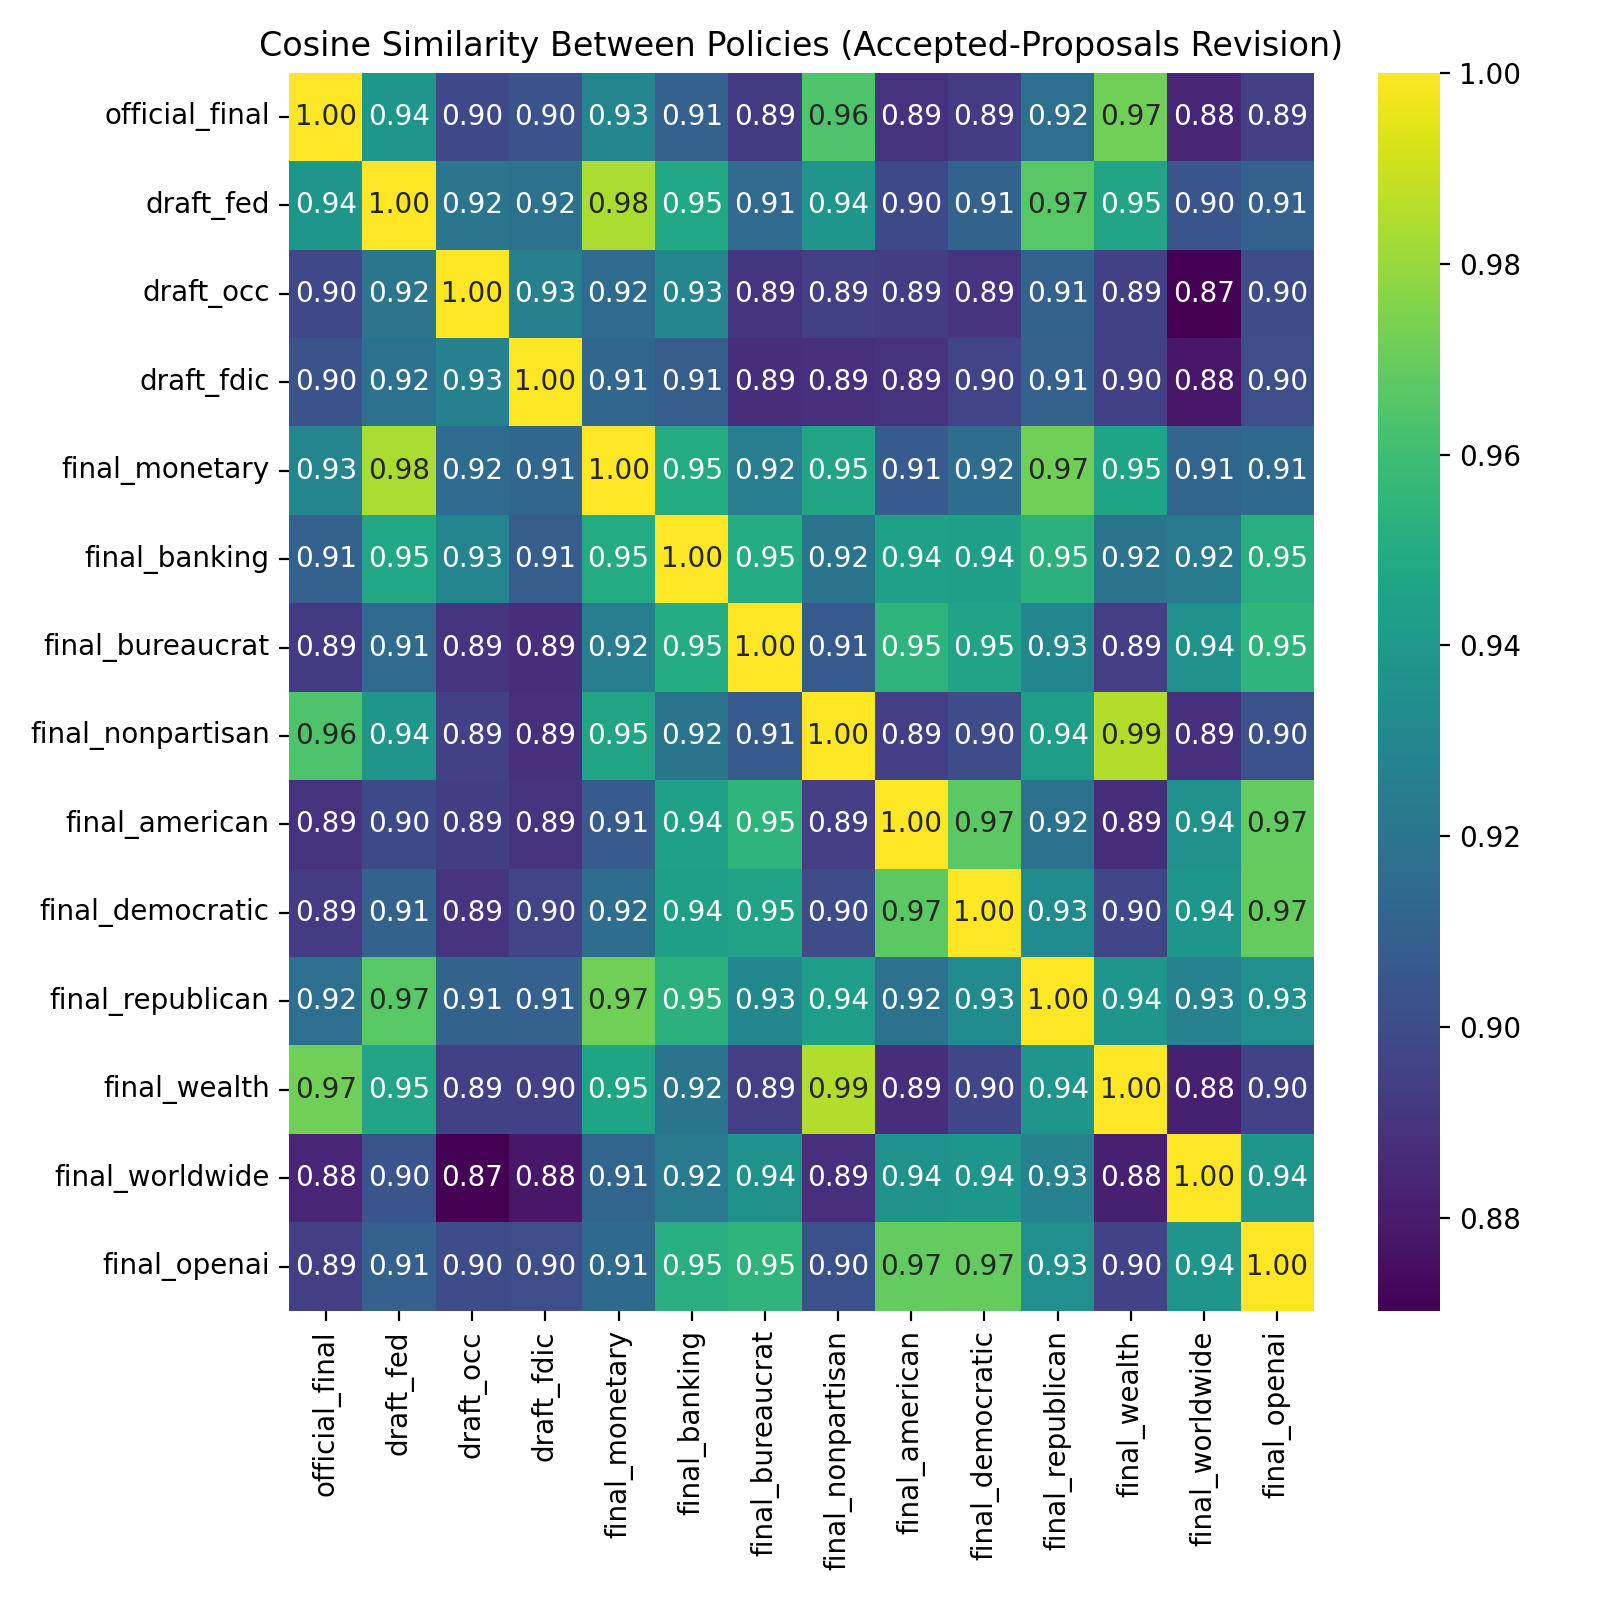
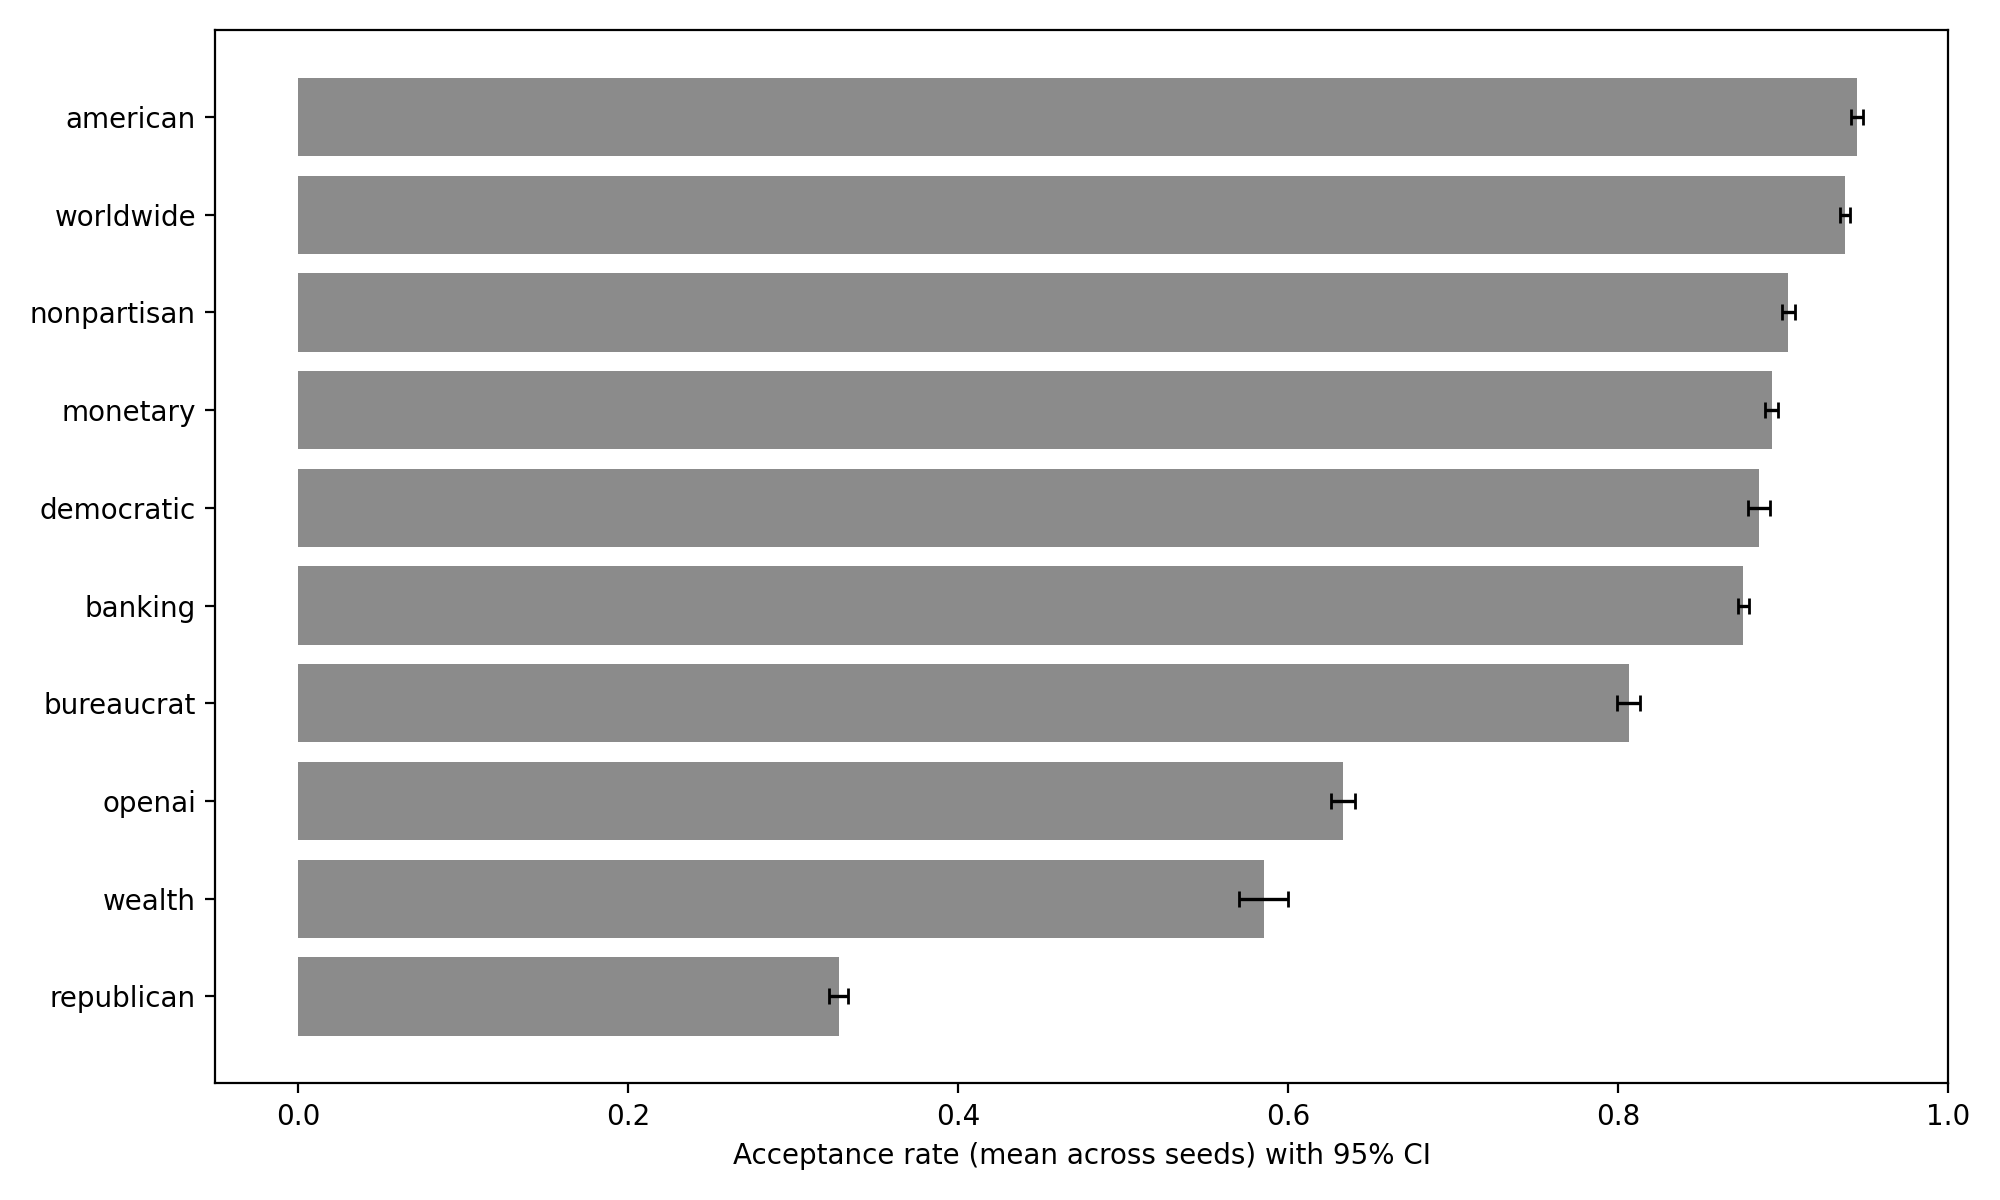
Update website content: CV, climate research publication, and rebuild index

diff --git a/index.html b/index.html
@@ -1,2 +1,2 @@
-<html lang="en"><head><meta charset="utf-8"/><meta content="width=device-width, initial-scale=1" name="viewport"/><title>Kirill Skobelev</title><link href="https://fonts.googleapis.com" rel="preconnect"/><link crossorigin="" href="https://fonts.gstatic.com" rel="preconnect"/><link href="https://fonts.googleapis.com/css2?family=Roboto:wght@400;500;700&amp;display=swap" rel="stylesheet"/><link href="styles.css" rel="stylesheet"/></head><body><main class="content"><section class="intro-section"><div class="profile-header"><img alt="Portrait of Kirill Skobelev" class="profile-photo" src="assets/Kirill_Skobelev.jpg"/><div class="profile-text"><h1>Kirill Skobelev</h1><nav class="social-links"><a href="mailto:[email redacted]">Email</a><a href="https://www.linkedin.com/in/skobelevkirill/">LinkedIn</a><a download="" href="assets/Kirill Skobelev CV.pdf">CV</a><a href="https://scholar.google.com/citations?user=AvdGCIMAAAAJ&amp;hl=en&amp;oi=ao">Google Scholar</a></nav></div></div></section><section class="section" id="bio"><h2>Bio</h2><div class="bio-content"><p>I am a pre-doctoral researcher at the <a href="https://www.chicagobooth.edu/research/center-for-applied-artificial-intelligence/about">Center for Applied AI</a> at the University of Chicago Booth School of Business. I earned a B.A. in Economics, summa cum laude, from the <a href="https://www.nes.ru/official&amp;lang=en">New Economic School</a> and <a href="https://www.hse.ru/en/info/">Higher School of Economics</a>. Before joining the Center for Applied AI, I worked as a data scientist at <a href="https://www.linkedin.com/company/platacardmx">PLATA</a>.</p></div></section><section class="section" id="publications"><h2>Research</h2><article class="publication"><div class="pub-media"><img alt="Visualization for DELM: a Python toolkit for Data Extraction with Language Models" src="assets/publications/1_delm/delm_illustration.png"/></div><div class="pub-content"><h3>DELM: a Python toolkit for Data Extraction with Language Models</h3><p class="pub-meta"><a href="https://www.linkedin.com/in/ericbfithian">Eric Fithian</a>, Kirill Skobelev · 2025</p><details class="pub-abstract"><summary>Abstract</summary><div class="pub-abstract-body"><p>Large Language Models (LLMs) have become powerful tools for annotating unstructured data. However, most existing workflows rely on ad hoc scripts, making reproducibility, robustness, and systematic evaluation difficult. To address these challenges, we introduce DELM (Data Extraction with Language Models), an open-source Python toolkit designed for rapid experimental iteration of LLM-based data extraction pipelines and for quantifying the trade-offs between them. DELM minimizes boilerplate code and offers a modular framework with structured outputs, built-in validation, flexible data-loading and scoring strategies, and efficient batch processing. It also includes robust support for working with LLM APIs, featuring retry logic, result caching, detailed cost tracking, and comprehensive configuration management. We showcase DELM’s capabilities through two case studies: one featuring a novel prompt optimization algorithm, and another illustrating how DELM quantifies trade-offs between cost and coverage when selecting keywords to decide which paragraphs to pass to an LLM.
-DELM is available at \href{https://github.com/Center-for-Applied-AI/delm}{\texttt{github.com/Center-for-Applied-AI/delm}}.</p></div></details><p class="pub-comments">Under review at ICLR 2026</p><div class="pub-links"><a class="pub-link" href="https://github.com/Center-for-Applied-AI/delm/tree/main">[code]</a><a class="pub-link" href="https://arxiv.org/abs/2509.20617">[paper]</a></div></div></article><article class="publication"><div class="pub-media"><img alt="Visualization for Bank Regulators and Climate Action: Evidence from Supervisory Guidance" src="assets/publications/2_climate/climate_illustration.png"/></div><div class="pub-content"><h3>Bank Regulators and Climate Action: Evidence from Supervisory Guidance</h3><p class="pub-meta">Kirill Skobelev, <a href="https://sites.google.com/chicagobooth.edu/rimmyetomy/home">Rimmy E. Tomy</a> · 2025</p><details class="pub-abstract"><summary>Abstract</summary><div class="pub-abstract-body"><p>U.S. bank regulators generally view their role as overseeing banks' exposure to climate-related risks rather than actively shaping climate policy. However, the boundary between risk oversight and policy advocacy is a gray area. We examine how U.S. bank regulators respond to climate advocacy pressures by analyzing  textual data on public comments and comparing revisions between the draft and final interagency guidance on climate risk management. Utilizing large language models (LLMs) to classify the public comments, we find that these comments are highly polarized, with individuals and climate advocacy groups supporting climate action by bank regulators, and banks and banking associations opposing it. We create textual alignment measures between comments and the draft and final interagency guidance, and find that highly climate-engaged comments are less likely to be reflected in the final guidance, suggesting regulators discounted pro-climate advocacy. Finally, we leverage LLMs to simulate various roles for the regulator and find that policy revisions most similar to actual outcomes emerged when operating under financial stability mandates and partisan political framings.</p></div></details><p class="pub-comments">Work in Progress. Reach out for the latest draft.</p></div></article><article class="publication"><div class="pub-media"><img alt="Visualization for Statistical Learning Meets Analyst Forecasts of Corporate Earnings" src="assets/publications/3_thesis/thesis_illustration.png"/></div><div class="pub-content"><h3>Statistical Learning Meets Analyst Forecasts of Corporate Earnings</h3><p class="pub-meta">Kirill Skobelev · 2024</p><details class="pub-abstract"><summary>Abstract</summary><div class="pub-abstract-body"><p>This paper explores the use and interpretation of ML methods in asset-pricing. First, I propose a robust market anomaly test based on analyst errors. I derive a link between excess returns and market's errors in earnings forecasts relative to a conditionally optimally estimator. I then contrast a Gradient Boosted Decision Tree algorithm to IBES consensus forecasts to show that companies for which analyst predictions exceeded ML forecasts earned lower out-of-sample returns and vice versa, which is consistent with the theoretical result. Further, I identify behavioral causes of analyst errors: I illustrate that analyst errors are associated with earnings growth in previous quarters (negatively), with book values (positively), and with capital expenditures (positively), thereby explaining some pricing anomalies. Second, I explore the application of ML for studying analyst behavior. I find that they submitted more Net Income forecasts for companies with intrinsically more predictable earnings as measured by R-Squared of ML forecasts after controlling for size and reporting history length.</p></div></details><p class="pub-comments">Undergraduate thesis.</p><div class="pub-links"><a class="pub-link" href="https://www.dropbox.com/scl/fi/8cd1icwhpw07397z5gf4m/Kirill-Skobelev-Statistical-Learning-Meets-Analyst-Forecasts-of-Corporate-Earnings-2024.pdf?rlkey=iv18gr5r624rembttnholp0i9&amp;e=1&amp;st=vzta4q1s&amp;dl=0">[paper]</a></div></div></article><article class="publication"><div class="pub-media"><img alt="Visualization for Bitcoin Production Cost: Demystifying the Mining Industry" src="assets/publications/4_bitcoin/bitcoin_illustration.png"/></div><div class="pub-content"><h3>Bitcoin Production Cost: Demystifying the Mining Industry</h3><p class="pub-meta">Kirill Skobelev · 2021</p><details class="pub-abstract"><summary>Abstract</summary><div class="pub-abstract-body"><p>This study examines the Bitcoin mining industry. It proposes a novel approach rooted in behavioral patterns for estimating the structure of the equipment utilized in the Bitcoin network. This study models industry’s capital expenditures, aggregate efficiency of mining hardware, and aggregate miner profitability. It finds that profits cluster in time and are relatively low compared to pure Bitcoin returns. This study considers two Bitcoin valuation methods proposed earlier in the literature: the marginal cost of production approach and 51-percent attack arbitrage. The study finds that the marginal cost hypothesis is invalid, while 51-percent attack arbitrage theory is well-grounded. This study introduces the hashrate adjustment hypothesis, which states that miners in aggregate adjust network hashrate to their revenues, which are primarily a function of the price of Bitcoin. The study presents evidence in its support.</p></div></details><p class="pub-comments">Winner of the Student Research Paper Competition held by the HSE University.</p><div class="pub-links"><a class="pub-link" href="https://papers.ssrn.com/sol3/papers.cfm?abstract_id=4005400#paper-citations-widget">[paper]</a></div></div></article></section></main></body></html>
+<html lang="en"><head><meta charset="utf-8"/><meta content="width=device-width, initial-scale=1" name="viewport"/><title>Kirill Skobelev</title><link href="https://fonts.googleapis.com" rel="preconnect"/><link crossorigin="" href="https://fonts.gstatic.com" rel="preconnect"/><link href="https://fonts.googleapis.com/css2?family=Inter:wght@300;400;500;600&amp;family=Merriweather:ital,wght@0,300;0,400;0,700;1,400&amp;display=swap" rel="stylesheet"/><link href="styles.css" rel="stylesheet"/></head><body><main class="content"><section class="intro-section"><div class="profile-header"><img alt="Portrait of Kirill Skobelev" class="profile-photo" src="assets/Kirill_Skobelev.jpg"/><div class="profile-text"><h1>Kirill Skobelev</h1><nav class="social-links"><a href="mailto:[email redacted]">Email</a><a href="https://www.linkedin.com/in/skobelevkirill/">LinkedIn</a><a download="" href="assets/Kirill Skobelev CV.pdf">CV</a><a href="https://scholar.google.com/citations?user=AvdGCIMAAAAJ&amp;hl=en&amp;oi=ao">Google Scholar</a></nav></div></div></section><section class="section" id="bio"><h2>Bio</h2><div class="bio-content"><p>I am a pre-doctoral researcher at the <a href="https://www.chicagobooth.edu/research/center-for-applied-artificial-intelligence/about">Center for Applied AI</a> at the University of Chicago Booth School of Business. I earned a B.A. in Economics, summa cum laude, from the <a href="https://www.nes.ru/official&amp;lang=en">New Economic School</a> and <a href="https://www.hse.ru/en/info/">Higher School of Economics</a>. Before joining the Center for Applied AI, I worked as a data scientist at <a href="https://www.linkedin.com/company/platacardmx">PLATA</a>.</p></div></section><section class="section" id="publications"><h2>Research</h2><article class="publication"><div class="pub-media"><img alt="Visualization for DELM: a Python toolkit for Data Extraction with Language Models" src="assets/publications/1_delm/delm_illustration.png"/></div><div class="pub-content"><h3>DELM: a Python toolkit for Data Extraction with Language Models</h3><p class="pub-meta"><a href="https://www.linkedin.com/in/ericbfithian">Eric Fithian</a>, Kirill Skobelev · 2025</p><details class="pub-abstract"><summary>Abstract</summary><div class="pub-abstract-body"><p>Large Language Models (LLMs) have become powerful tools for annotating unstructured data. However, most existing workflows rely on ad hoc scripts, making reproducibility, robustness, and systematic evaluation difficult. To address these challenges, we introduce DELM (Data Extraction with Language Models), an open-source Python toolkit designed for rapid experimental iteration of LLM-based data extraction pipelines and for quantifying the trade-offs between them. DELM minimizes boilerplate code and offers a modular framework with structured outputs, built-in validation, flexible data-loading and scoring strategies, and efficient batch processing. It also includes robust support for working with LLM APIs, featuring retry logic, result caching, detailed cost tracking, and comprehensive configuration management. We showcase DELM’s capabilities through two case studies: one featuring a novel prompt optimization algorithm, and another illustrating how DELM quantifies trade-offs between cost and coverage when selecting keywords to decide which paragraphs to pass to an LLM.
+DELM is available at \href{https://github.com/Center-for-Applied-AI/delm}{\texttt{github.com/Center-for-Applied-AI/delm}}.</p></div></details><p class="pub-comments">arXiv preprint.</p><div class="pub-links"><a class="pub-link" href="https://github.com/Center-for-Applied-AI/delm/tree/main">[code]</a><a class="pub-link" href="https://arxiv.org/abs/2509.20617">[paper]</a></div></div></article><article class="publication"><div class="pub-media"><img alt="Visualization for Bank Regulators and Climate Action: Evidence from Supervisory Guidance" src="assets/publications/2_climate/climate_illustration.png"/></div><div class="pub-content"><h3>Bank Regulators and Climate Action: Evidence from Supervisory Guidance</h3><p class="pub-meta">Kirill Skobelev, <a href="https://sites.google.com/chicagobooth.edu/rimmyetomy/home">Rimmy E. Tomy</a> · 2025</p><details class="pub-abstract"><summary>Abstract</summary><div class="pub-abstract-body"><p>U.S. bank regulators generally view their role as overseeing banks' exposure to climate-related risks rather than actively shaping climate policy. However, the boundary between risk oversight and policy advocacy is a gray area. We examine how U.S. bank regulators respond to climate advocacy pressures by analyzing  textual data on public comments and comparing revisions between the draft and final interagency guidance on climate risk management. Utilizing large language models (LLMs) to classify the public comments, we find that these comments are highly polarized, with individuals and climate advocacy groups supporting climate action by bank regulators, and banks and banking associations opposing it. We create textual alignment measures between comments and the draft and final interagency guidance, and find that highly climate-engaged comments are less likely to be reflected in the final guidance, suggesting regulators discounted pro-climate advocacy. Finally, we use LLMs to simulate regulators with varying incentives and find that policies most similar to the actual outcome emerge when regulators follow their institutional mandates, while partisan political considerations produce less similar results.</p></div></details><p class="pub-comments">Work in Progress. Reach out for the latest draft.</p></div></article><article class="publication"><div class="pub-media"><img alt="Visualization for Statistical Learning Meets Analyst Forecasts of Corporate Earnings" src="assets/publications/3_thesis/thesis_illustration.png"/></div><div class="pub-content"><h3>Statistical Learning Meets Analyst Forecasts of Corporate Earnings</h3><p class="pub-meta">Kirill Skobelev · 2024</p><details class="pub-abstract"><summary>Abstract</summary><div class="pub-abstract-body"><p>This paper explores the use and interpretation of ML methods in asset-pricing. First, I propose a robust market anomaly test based on analyst errors. I derive a link between excess returns and market's errors in earnings forecasts relative to a conditionally optimally estimator. I then contrast a Gradient Boosted Decision Tree algorithm to IBES consensus forecasts to show that companies for which analyst predictions exceeded ML forecasts earned lower out-of-sample returns and vice versa, which is consistent with the theoretical result. Further, I identify behavioral causes of analyst errors: I illustrate that analyst errors are associated with earnings growth in previous quarters (negatively), with book values (positively), and with capital expenditures (positively), thereby explaining some pricing anomalies. Second, I explore the application of ML for studying analyst behavior. I find that they submitted more Net Income forecasts for companies with intrinsically more predictable earnings as measured by R-Squared of ML forecasts after controlling for size and reporting history length.</p></div></details><p class="pub-comments">Undergraduate thesis.</p><div class="pub-links"><a class="pub-link" href="https://www.dropbox.com/scl/fi/8cd1icwhpw07397z5gf4m/Kirill-Skobelev-Statistical-Learning-Meets-Analyst-Forecasts-of-Corporate-Earnings-2024.pdf?rlkey=iv18gr5r624rembttnholp0i9&amp;e=1&amp;st=vzta4q1s&amp;dl=0">[paper]</a></div></div></article><article class="publication"><div class="pub-media"><img alt="Visualization for Bitcoin Production Cost: Demystifying the Mining Industry" src="assets/publications/4_bitcoin/bitcoin_illustration.png"/></div><div class="pub-content"><h3>Bitcoin Production Cost: Demystifying the Mining Industry</h3><p class="pub-meta">Kirill Skobelev · 2021</p><details class="pub-abstract"><summary>Abstract</summary><div class="pub-abstract-body"><p>This study examines the Bitcoin mining industry. It proposes a novel approach rooted in behavioral patterns for estimating the structure of the equipment utilized in the Bitcoin network. This study models industry’s capital expenditures, aggregate efficiency of mining hardware, and aggregate miner profitability. It finds that profits cluster in time and are relatively low compared to pure Bitcoin returns. This study considers two Bitcoin valuation methods proposed earlier in the literature: the marginal cost of production approach and 51-percent attack arbitrage. The study finds that the marginal cost hypothesis is invalid, while 51-percent attack arbitrage theory is well-grounded. This study introduces the hashrate adjustment hypothesis, which states that miners in aggregate adjust network hashrate to their revenues, which are primarily a function of the price of Bitcoin. The study presents evidence in its support.</p></div></details><p class="pub-comments">Winner of the Student Research Paper Competition held by the HSE University.</p><div class="pub-links"><a class="pub-link" href="https://papers.ssrn.com/sol3/papers.cfm?abstract_id=4005400#paper-citations-widget">[paper]</a></div></div></article></section></main></body></html>